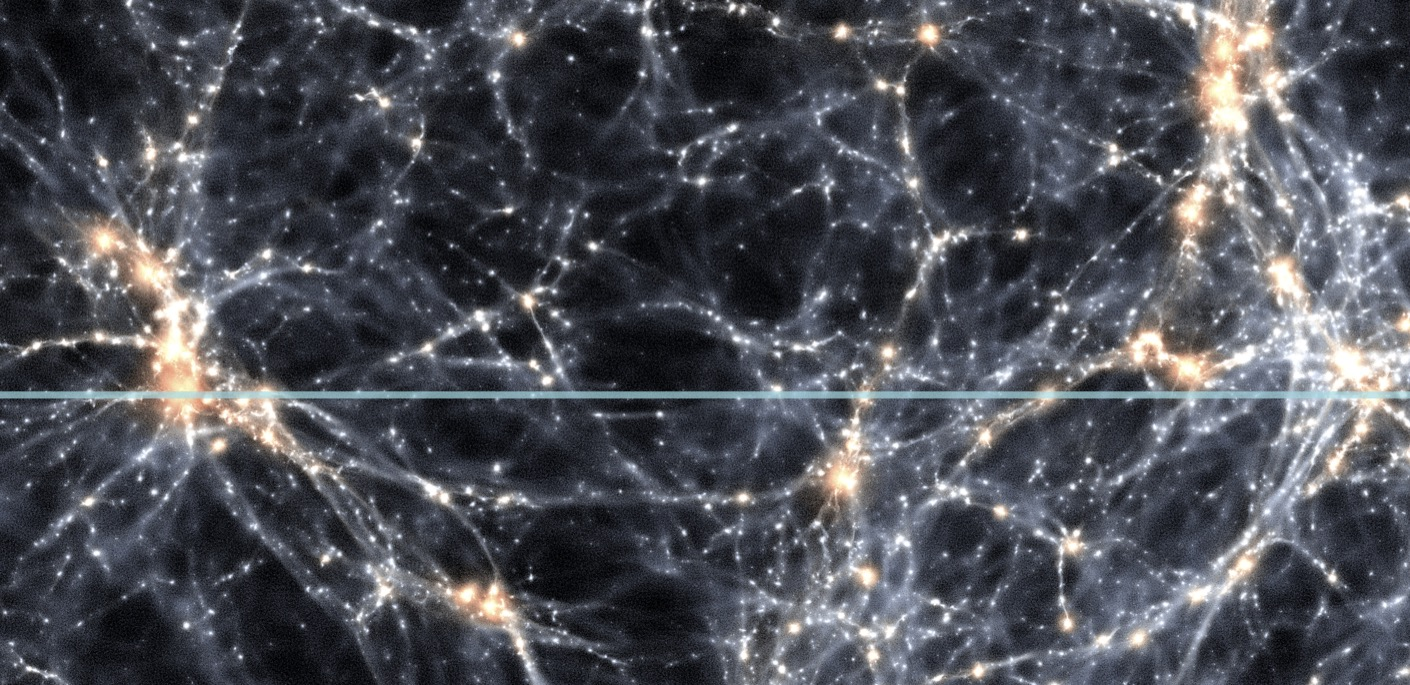
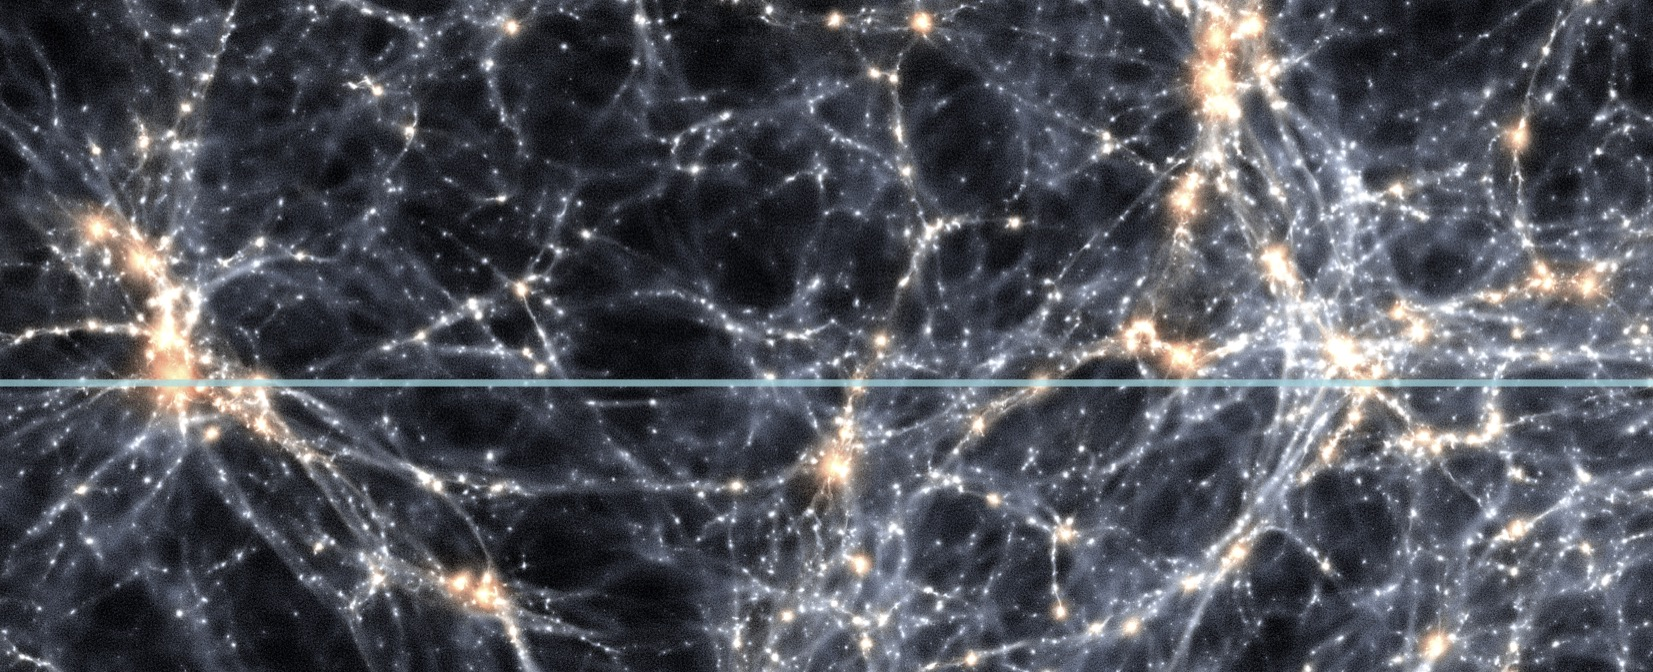
2023.06.07 : higher image, image caption

diff --git a/index.html b/index.html
@@ -83,6 +83,10 @@
                     I am a recipient of the NASA <a href="https://astrobiology.nasa.gov/news/finesst-proposal-due-date-approaching/">FINESST</a> award, and my current research focuses on developing multi-fidelity emulators for cosmological simulations, as highlighted in the <a href="https://insideucr.ucr.edu/awards/2021/06/23/physics-graduate-student-receives-prestigious-nasa-fellowship">Inside UCR story</a>.
                     Apart from my work on cosmological simulations, I also have interests in developing detection pipelines for absorptions in quasar spectra (in collaboration with Roman Garnett from WUSTL CSE) and performing Bayesian population inference for black hole binaries (with Will Dawson from LLNL).
                 </p>
+                <p class="w3-text-grey" style="text-align: justify;padding: 3%;font-size: 16px;">
+                    (Background image: Gas+temperature in Astrid simulation model with 3072^3 particles in 120 cMpc/h.)
+                </p>
+
 
                 <!-- MF-Box explain -->
                 <h4 class="w3-padding-32">MF-Box: Multi-fidelity and multi-scale emulation</h4>
